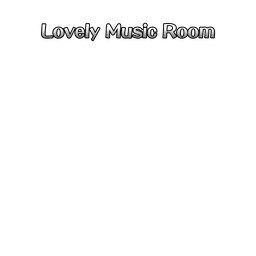
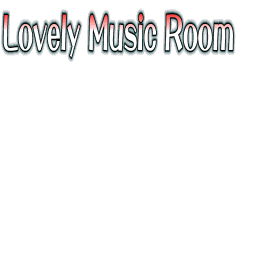
Redraw the English Music Room title in the original style
tools/prepare_title_art.py renders titles with DF Popcorn W12 using the gradient, outline and glow measured from the 恋々音樂館 sprite. The font is not included. Pass the path to popw12.ttf.

The title is stored at half width in its 256 px sprite, and the Music Room draws it at twice its width in English.

Changed region(s): [[0.0, 0.0312, 0.9375, 0.25]]

diff --git a/tools/prepare_title_art.py b/tools/prepare_title_art.py
@@ -1,0 +1,107 @@
+"""Generate English title overlays in the style of the original menu titles.
+
+The original titles use DF Popcorn W12 (DFPPOPCorn-W12). The font is not part
+of this repository. Pass the path to popw12.ttf:
+
+    python tools/prepare_title_art.py path/to/popw12.ttf
+
+The style values below were measured from the 恋々音樂館 sprite in music00.
+Rendered in this style at 48 px, that title matches the original glyph
+positions and colors.
+"""
+from pathlib import Path
+import sys
+import numpy as np
+from PIL import Image, ImageDraw, ImageFont
+from scipy import ndimage
+
+SS = 4
+SIZE = 48
+TOP = 9.5
+OUTLINE = 1.25
+OUTLINE_COLOR = np.array([3, 7, 7])
+# Red keeps 255. Green and blue rise from this value at the top of the ink to
+# 255 at GRADIENT of the ink height, and the rest of the glyph is white.
+RED_GB = 51
+GRADIENT = .4
+# Teal glow by distance in pixels outside the outline.
+GLOW_DISTANCE = np.array([0, .5, 1, 2, 3, 4, 4.6])
+GLOW_ALPHA = np.array([235, 215, 155, 76, 40, 14, 0]) / 255
+GLOW_RGB = np.array([[34, 85, 85], [34, 85, 85], [34, 85, 85], [34, 51, 68],
+                     [17, 34, 34], [0, 17, 17], [0, 17, 17]])
+
+
+def glyphs(text, font_path, width, height, max_width, left=None):
+    """Return a supersampled glyph mask in width x height.
+
+    The line is centered, or starts at left when given. Text wider than
+    max_width is condensed horizontally to fit.
+    """
+    font = ImageFont.truetype(str(font_path), SIZE*SS)
+    line = Image.new('L', (int(font.getlength(text)) + 32*SS, height*SS))
+    # The original title draws the 48 px line at y = 9.5 in its 64 px sprite.
+    ImageDraw.Draw(line).text((8*SS, round(TOP*SS)), text, font=font, fill=255)
+    box = line.getbbox()
+    line = line.crop((box[0], 0, box[2], line.height))
+    if line.width > max_width*SS:
+        line = line.resize((max_width*SS, line.height), Image.Resampling.LANCZOS)
+    mask = Image.new('L', (width*SS, height*SS))
+    x = (width*SS - line.width)//2 if left is None else round(left*SS)
+    mask.paste(line, (x, 0))
+    return np.asarray(mask) > 127
+
+
+def styled(glyph):
+    """Apply the fill gradient, outline and glow, then reduce to 4-bit channels."""
+    height, width = glyph.shape[0]//SS, glyph.shape[1]//SS
+    radius = round(OUTLINE*SS)
+    y, x = np.mgrid[-radius:radius + 1, -radius:radius + 1]
+    outer = ndimage.binary_dilation(glyph, structure=x*x + y*y <= radius*radius)
+    def down(mask): return mask.reshape(height, SS, width, SS).mean((1, 3))
+    glyph_cover, outer_cover = down(glyph), down(outer)
+    rows = np.nonzero(glyph.any(1))[0]
+    top, bottom = rows.min()/SS, (rows.max() + 1)/SS
+    t = np.clip((np.arange(height) + .5 - top)/(GRADIENT*(bottom - top)), 0, 1)
+    gb = RED_GB + (255 - RED_GB)*t
+    fill = np.stack([np.full(height, 255.), gb, gb], -1)[:, None, :]
+    distance = (ndimage.distance_transform_edt(~outer)/SS)[SS//2::SS, SS//2::SS]
+    glow_alpha = np.interp(distance, GLOW_DISTANCE, GLOW_ALPHA)
+    glow_rgb = np.stack([np.interp(distance, GLOW_DISTANCE, GLOW_RGB[:, c]) for c in range(3)], -1)
+    halo = (1 - outer_cover)*glow_alpha
+    premultiplied = (glyph_cover[..., None]*fill + (outer_cover - glyph_cover)[..., None]*OUTLINE_COLOR
+                     + halo[..., None]*glow_rgb)
+    alpha = outer_cover + halo
+    rgb = np.where(alpha[..., None] > 1e-4, premultiplied/np.maximum(alpha[..., None], 1e-4), 0)
+    def quantize(v): return (np.clip(np.round(v/17), 0, 15)*17).astype(np.uint8)
+    return Image.fromarray(np.dstack([quantize(rgb), quantize(alpha*255)]), 'RGBA')
+
+
+def title(text, font_path, width, height, max_width, left=None):
+    return styled(glyphs(text, font_path, width, height, max_width, left))
+
+
+def half_width(image):
+    """Average column pairs. The game draws these sprites at twice their width."""
+    pixels = np.asarray(image).astype(float)
+    alpha = pixels[..., 3:]/255
+    premultiplied = (pixels[..., :3]*alpha).reshape(pixels.shape[0], -1, 2, 3).mean(2)
+    alpha = alpha.reshape(pixels.shape[0], -1, 2, 1).mean(2)
+    rgb = np.where(alpha > 1e-4, premultiplied/np.maximum(alpha, 1e-4), 0)
+    def quantize(v): return (np.clip(np.round(v/17), 0, 15)*17).astype(np.uint8)
+    return Image.fromarray(np.dstack([quantize(rgb), quantize(alpha*255)]), 'RGBA')
+
+
+def prepare(resources, font_path):
+    resources = Path(resources)
+    overlay = Image.new('RGBA', (256, 256))
+    mask = Image.new('L', overlay.size)
+    # MusicRoom draws the English title at twice its width. The text starts 7 px
+    # in, like 恋々音樂館.
+    overlay.paste(half_width(title('Lovely Music Room', font_path, 512, 64, 500, left=7)), (0, 0))
+    ImageDraw.Draw(mask).rectangle((0, 0, 255, 63), fill=255)
+    overlay.save(resources/'music00.anm.bin.overlay.png')
+    mask.save(resources/'music00.anm.bin.mask.png')
+
+
+if __name__ == '__main__':
+    prepare(Path(__file__).resolve().parent/'converter/resources', sys.argv[1])

diff --git a/src/MusicRoom.cpp b/src/MusicRoom.cpp
@@ -14,6 +14,7 @@
 #include "platform/3ds/MusicControls.hpp"
 #include "platform/3ds/MusicDescription.hpp"
 #include "platform/3ds/NdspAudio.hpp"
+#include "platform/3ds/Settings.hpp"
 #include "platform/3ds/Touch.hpp"
 #endif
 #include <cstdlib>
@@ -235,7 +236,18 @@ ChainCallbackResult MusicRoom::OnDraw(MusicRoom *musicRoom)
 
     g_AnmManager->SetCurrentTexture(0);
     g_AnmManager->CopySurfaceToBackBuffer(0, 0, 0, 0, 0);
+#ifdef __3DS__
+    // The English title is stored at half width to fit its 256 px sprite.
+    const float titleScaleX = musicRoom->mainVm->scaleX;
+    if (CtrSettings::English())
+    {
+        musicRoom->mainVm->scaleX *= 2;
+    }
     g_AnmManager->DrawNoRotation(musicRoom->mainVm);
+    musicRoom->mainVm->scaleX = titleScaleX;
+#else
+    g_AnmManager->DrawNoRotation(musicRoom->mainVm);
+#endif
 
     for (i = musicRoom->listingOffset; i < std::min(musicRoom->numDescriptors,musicRoom->listingOffset + VisibleRows); i++)
     {
